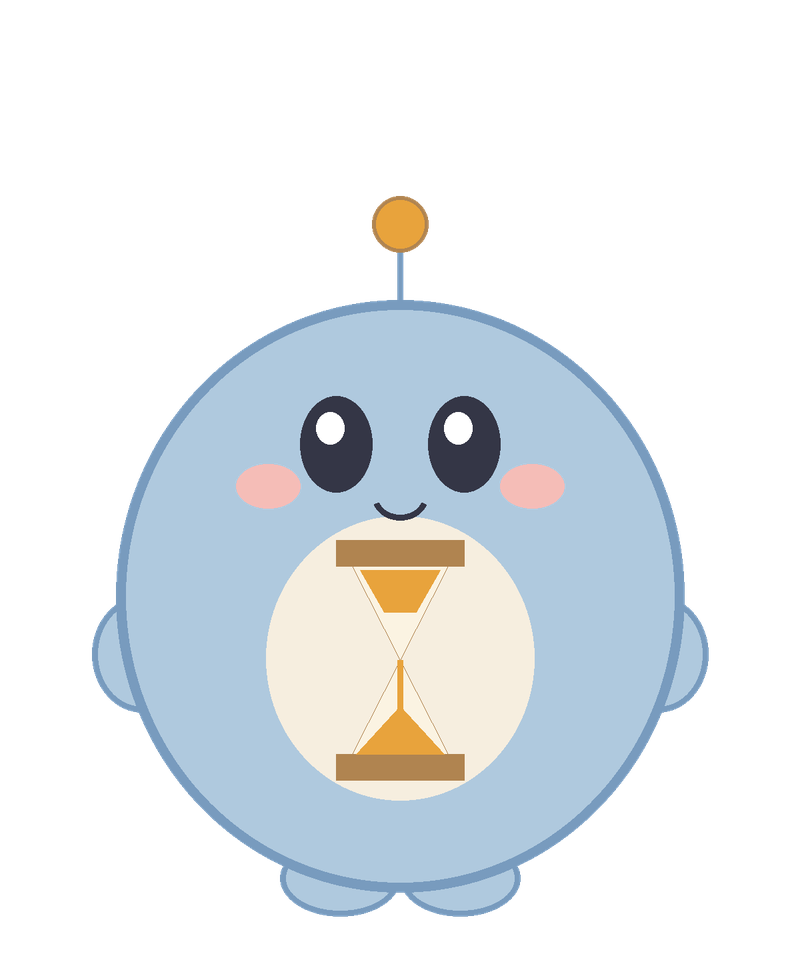
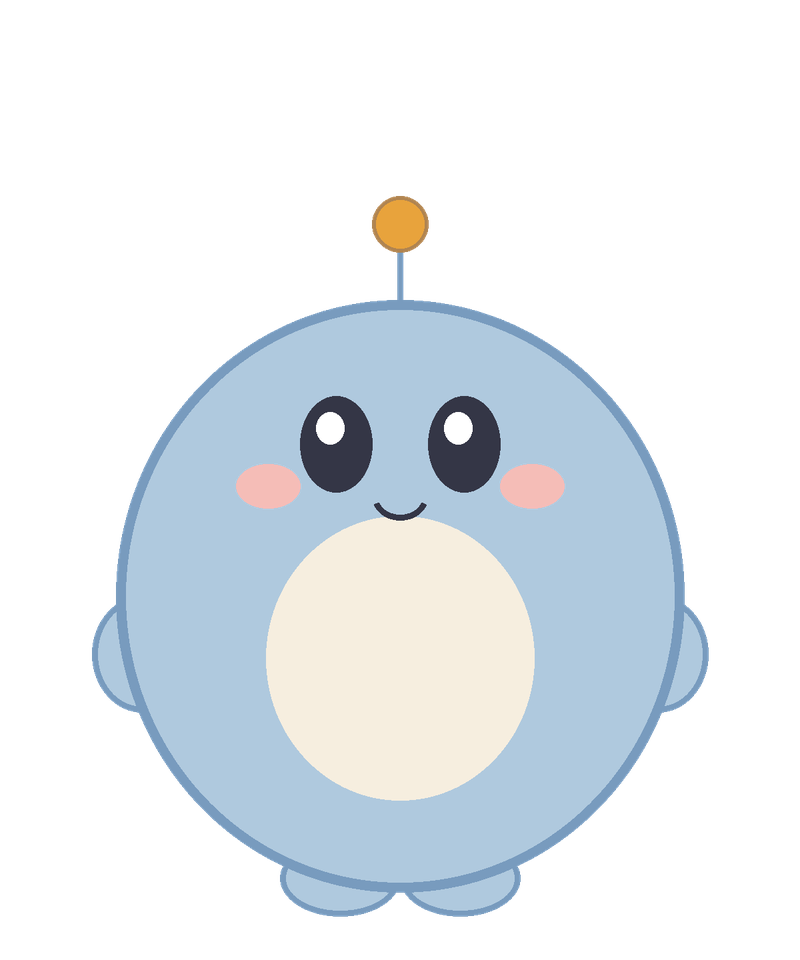
Rename panel labels and add hover hourglass drain/flip animation
- Panel title 晚点队列 → 稍后处理, count 欠着N件 → 待处理N件
- Move hourglass out of the static body sprite; draw it at runtime
- On hover: sand drains top→bottom, then the hourglass flips 180° once

Changed region(s): [[0.4062, 0.6875, 0.5938, 0.8125], [0.4062, 0.5625, 0.5938, 0.6562]]

diff --git a/laterqueue.py b/laterqueue.py
@@ -20,9 +20,10 @@ import traceback
 import subprocess
 from datetime import datetime
 
-from PySide6.QtCore import Qt, QPoint, QSize, QTimer, QRectF
+from PySide6.QtCore import Qt, QPoint, QPointF, QSize, QTimer, QRectF
 from PySide6.QtGui import (
-    QPixmap, QImage, QAction, QFont, QColor, QGuiApplication, QPainter, QBrush)
+    QPixmap, QImage, QAction, QFont, QColor, QGuiApplication, QPainter,
+    QBrush, QPen, QPolygonF)
 from PySide6.QtWidgets import (
     QApplication, QWidget, QLabel, QVBoxLayout, QHBoxLayout, QPushButton,
     QMenu, QInputDialog, QScrollArea, QGraphicsDropShadowEffect, QSizePolicy,
@@ -48,6 +49,8 @@ PET_WIDTH = 130   # 桌面上小精灵显示宽度（px）
 FLOAT_AMP = 6      # 待机上下浮动幅度（px）
 HOVER_SCALE = 1.08  # 悬停放大倍数
 JUMP_AMP = 14      # 点击跳动幅度（px）
+HG_DRAIN_DUR = 1.1  # 悬停后沙子漏下去的时长（秒）
+HG_FLIP_DUR = 0.5   # 漏完后沙漏翻转 180° 的时长（秒）
 
 
 def _ensure_dir():
@@ -197,12 +200,12 @@ class QueueBubble(QWidget):
 
         # 头部
         head = QHBoxLayout()
-        title = QLabel("晚点队列")
+        title = QLabel("稍后处理")
         title.setObjectName("title")
         title.setFont(QFont("", 14))
         head.addWidget(title)
         head.addStretch(1)
-        cnt = QLabel(f"欠着 {len(pending)} 件" if pending else "清空啦～")
+        cnt = QLabel(f"待处理 {len(pending)} 件" if pending else "清空啦～")
         cnt.setObjectName("count")
         head.addWidget(cnt)
         hw = QWidget()
@@ -330,6 +333,12 @@ class Pet(QWidget):
         self._jump = 0.0         # 当前跳动偏移（衰减振荡）
         self._blinking = False
 
+        # 沙漏动画：悬停触发一次「漏沙 → 翻转」，鼠标移开复位。
+        # phase: "idle"→待机满上舱；"drain"→上舱漏到下舱；"flip"→整体翻180°；"done"→停住
+        self._hg_phase = "idle"
+        self._hg_t = 0.0         # 当前阶段已进行时间（秒）
+        self._hg_flip = 0.0      # 沙漏翻转角度进度 0→1（1=已翻180°）
+
         self._anim = QTimer(self)
         self._anim.timeout.connect(self._tick)
         self._anim.start(33)     # ~30fps
@@ -382,6 +391,8 @@ class Pet(QWidget):
         p.setRenderHint(QPainter.Antialiasing, True)
         # 源矩形用整张高分位图；目标矩形是浮点，drawPixmap 内部按 dpr 缩放
         p.drawPixmap(self._pet_rect, pm, QRectF(pm.rect()))
+        # 肚子上的沙漏：运行时绘制，支持悬停后「漏沙 → 翻转」动画
+        self._draw_hourglass(p)
         # 待办计数气泡：画在小人右上角（同层绘制，无子控件 halo）
         if self._badge_count > 0:
             r = self._pet_rect
@@ -398,6 +409,87 @@ class Pet(QWidget):
             p.drawText(QRectF(bx, by, d, d), Qt.AlignCenter, txt)
         p.end()
 
+    def _draw_hourglass(self, p):
+        """在肚子的奶油圆底上画沙漏。按 _hg_phase/_hg_t 呈现漏沙，
+        按 _hg_flip 呈现整体翻转（只翻沙漏，不动身体）。几何比例沿用
+        make_pet.py 里原沙漏在 400×480 画布中的位置。"""
+        r = self._pet_rect
+        # 归一化坐标 → 当前帧像素坐标
+        def X(fx): return r.x() + fx * r.width()
+        def Y(fy): return r.y() + fy * r.height()
+        # 沙漏关键比例（源画布 400×480）
+        gx0, gx1 = 176 / 400, 224 / 400      # 玻璃上沿两端
+        top_y, neck_y, bot_y = 283 / 480, 330 / 480, 377 / 480
+        wood_top0, wood_top1 = 270 / 480, 283 / 480
+        wood_bot0, wood_bot1 = 377 / 480, 390 / 480
+        wx0, wx1 = 168 / 400, 232 / 400      # 木托两端
+        cx = 200 / 400
+
+        WOOD = QColor(176, 132, 80)
+        SAND = QColor(232, 163, 60)
+        GLASS = QColor(251, 243, 226)
+
+        # 漏沙进度 d：0=全在上舱，1=全在下舱
+        if self._hg_phase == "idle":
+            d = 0.0
+        elif self._hg_phase == "drain":
+            d = min(1.0, self._hg_t / HG_DRAIN_DUR)
+        else:                      # flip / done：沙子已全在（翻转前的）下舱
+            d = 1.0
+
+        p.save()
+        p.setRenderHint(QPainter.Antialiasing, True)
+        # 整体翻转：绕沙漏中心旋转 flip*180°。只作用于沙漏。
+        p.translate(X(cx), Y(neck_y))
+        p.rotate(self._hg_flip * 180.0)
+        p.translate(-X(cx), -Y(neck_y))
+
+        def poly(pts):
+            return QPolygonF([QPointF(X(a), Y(b)) for a, b in pts])
+
+        # 玻璃两个锥体（上下对称，尖端在 neck）
+        upper = poly([(gx0, top_y), (gx1, top_y), (cx, neck_y)])
+        lower = poly([(cx, neck_y), (gx0, bot_y), (gx1, bot_y)])
+        p.setPen(QPen(WOOD, max(1.0, r.width() * 0.005)))
+        p.setBrush(QBrush(GLASS))
+        p.drawPolygon(upper)
+        p.drawPolygon(lower)
+
+        # 上舱沙子：随 d 从满到空，顶面下沉、锥体收窄
+        p.setPen(Qt.NoPen)
+        p.setBrush(QBrush(SAND))
+        if d < 1.0:
+            # 顶面从 top_y 附近下降到 neck；用 (1-d) 决定剩余高度
+            rem = 1.0 - d
+            surf_y = top_y + (neck_y - top_y) * (1.0 - rem)
+            half = (gx1 - gx0) / 2.0
+            hw = half * rem            # 顶面半宽随剩余量收窄
+            p.drawPolygon(poly([
+                (cx - hw, surf_y), (cx + hw, surf_y), (cx, neck_y)]))
+        # 下落的一线沙流（仅漏沙途中）
+        if self._hg_phase == "drain" and 0.02 < d < 0.98:
+            p.setPen(QPen(SAND, max(1.0, r.width() * 0.008)))
+            p.drawLine(QPointF(X(cx), Y(neck_y)),
+                       QPointF(X(cx), Y(bot_y - 0.01)))
+            p.setPen(Qt.NoPen)
+        # 下舱沙子：随 d 从空到满，从底部往上堆（下舱是尖朝上的三角）
+        if d > 0.0:
+            surf_y = bot_y + (neck_y - bot_y) * d   # d=1 时堆到 neck
+            half = (gx1 - gx0) / 2.0
+            hw = half * (1.0 - d)                   # 堆得越高，顶面越窄
+            p.drawPolygon(poly([
+                (cx - hw, surf_y), (cx + hw, surf_y),
+                (gx1, bot_y), (gx0, bot_y)]))
+
+        # 木托（画在最上层，翻转时一起转）
+        p.setPen(Qt.NoPen)
+        p.setBrush(QBrush(WOOD))
+        p.drawPolygon(poly([
+            (wx0, wood_top0), (wx1, wood_top0), (wx1, wood_top1), (wx0, wood_top1)]))
+        p.drawPolygon(poly([
+            (wx0, wood_bot0), (wx1, wood_bot0), (wx1, wood_bot1), (wx0, wood_bot1)]))
+        p.restore()
+
     def _tick(self):
         self._t += 0.033
         # 悬停缩放：向目标平滑插值
@@ -407,7 +499,22 @@ class Pet(QWidget):
             self._jump *= 0.82
         else:
             self._jump = 0.0
+        self._advance_hourglass()
         self._layout_pet()
+
+    def _advance_hourglass(self):
+        """推进沙漏动画：drain（漏沙）→ flip（翻转）→ done。"""
+        dt = 0.033
+        if self._hg_phase == "drain":
+            self._hg_t += dt
+            if self._hg_t >= HG_DRAIN_DUR:
+                self._hg_phase = "flip"
+                self._hg_t = 0.0
+        elif self._hg_phase == "flip":
+            self._hg_t += dt
+            self._hg_flip = min(1.0, self._hg_t / HG_FLIP_DUR)
+            if self._hg_t >= HG_FLIP_DUR:
+                self._hg_phase = "done"
 
     def _schedule_blink(self):
         self._blink_timer.start(random.randint(2500, 6000))
@@ -425,10 +532,19 @@ class Pet(QWidget):
 
     def enterEvent(self, e):
         self._scale_target = HOVER_SCALE   # 悬停放大
+        # 悬停触发一次「漏沙 → 翻转」，仅在待机态起步（避免重复触发）
+        if self._hg_phase == "idle":
+            self._hg_phase = "drain"
+            self._hg_t = 0.0
+            self._hg_flip = 0.0
         super().enterEvent(e)
 
     def leaveEvent(self, e):
         self._scale_target = 1.0
+        # 鼠标移开：复位沙漏，下次悬停可再放一次
+        self._hg_phase = "idle"
+        self._hg_t = 0.0
+        self._hg_flip = 0.0
         super().leaveEvent(e)
 
     def _bounce(self):

diff --git a/make_pet.py b/make_pet.py
@@ -26,15 +26,8 @@ def render(path, blink=False):
     ell(46,298,96,356,fill=BODY,outline=BODYO,width=S(3))
     ell(304,298,354,356,fill=BODY,outline=BODYO,width=S(3))
     ell(58,150,342,446,fill=BODY,outline=BODYO,width=S(5))
+    # 肚子只画空的奶油色圆底；沙漏改由 laterqueue 运行时绘制（支持漏沙+翻转动画）
     ell(133,258,267,400,fill=CREAM)
-    cx=200; neck=330
-    poly([(168,270),(232,270),(232,283),(168,283)],fill=WOOD)
-    poly([(168,377),(232,377),(232,390),(168,390)],fill=WOOD)
-    poly([(176,283),(224,283),(cx,neck)],fill=GLASS,outline=WOOD)
-    poly([(cx,neck),(176,377),(224,377)],fill=GLASS,outline=WOOD)
-    poly([(180,285),(220,285),(208,306),(192,306)],fill=SAND)
-    line([(cx,neck),(cx,372)],SAND,3)
-    poly([(178,377),(222,377),(cx,353)],fill=SAND)
     ell(118,232,150,254,fill=CHEEK)
     ell(250,232,282,254,fill=CHEEK)
     if blink:
